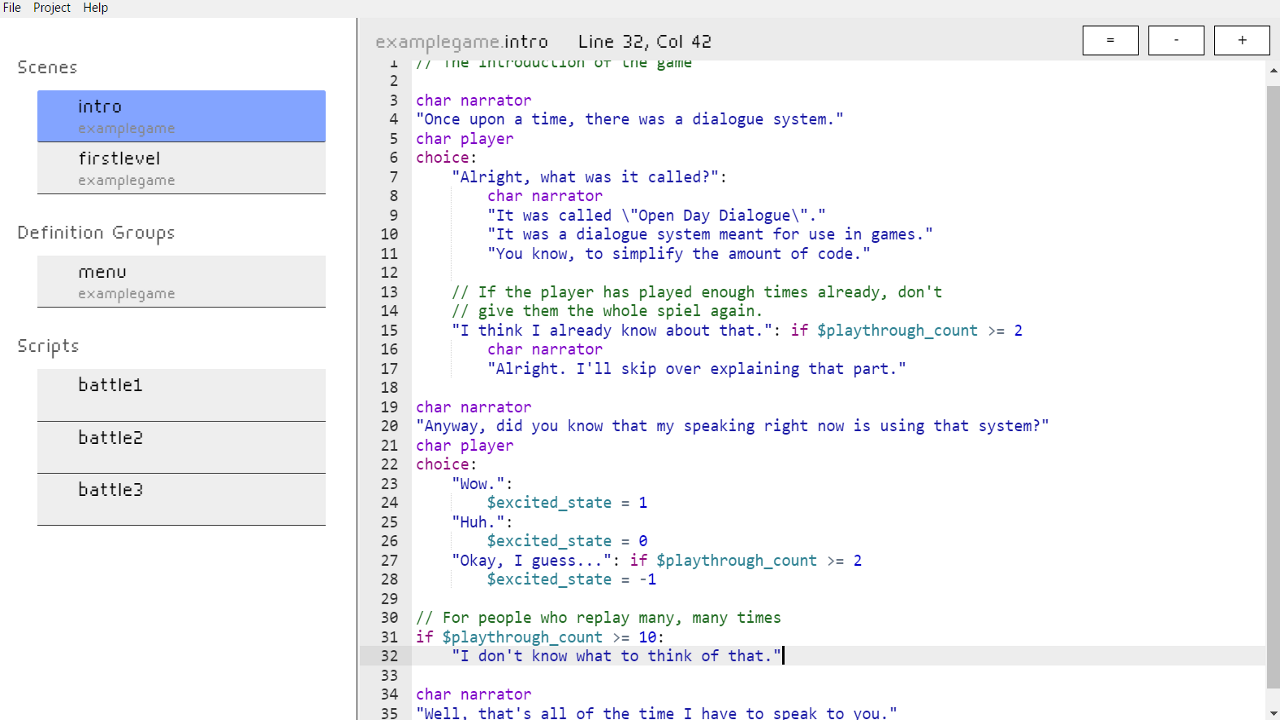
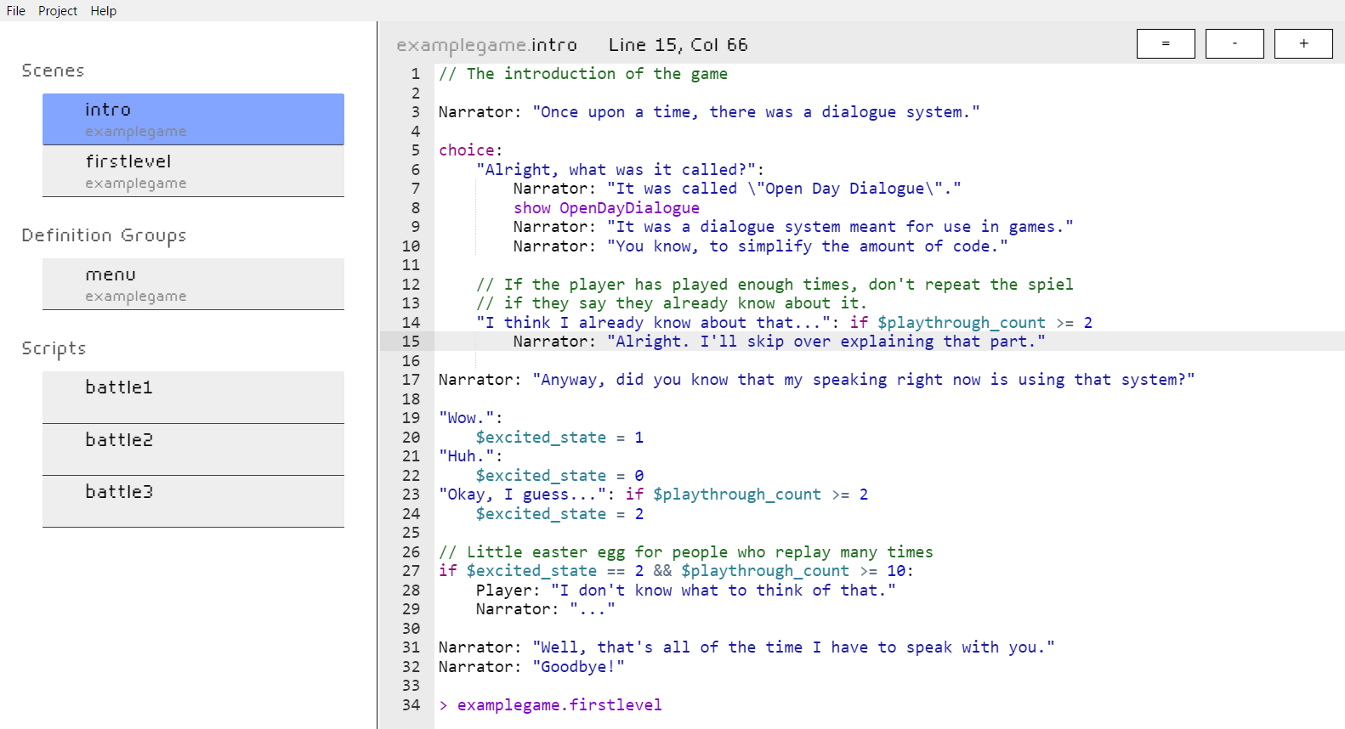
Fix operator syntax highlighting and update screenshot

diff --git a/app/static/ace/mode-opendaydialogue.js b/app/static/ace/mode-opendaydialogue.js
@@ -45,7 +45,7 @@ define("ace/mode/opendaydialogue", ["require","exports","module","ace/lib/oop","
                 },
                 {
                     token: "operator",
-                    regex: "\\+|\\-|\\*|\\/|%|<|>|<=|=>|==|!=|="
+                    regex: "\\+|\\-|\\*|\\/|%|<|>|<=|=>|==|!=|=|&&|\\|\\||\\^\\^"
                 },
                 {
                     token: this.createKeywordMapper({
